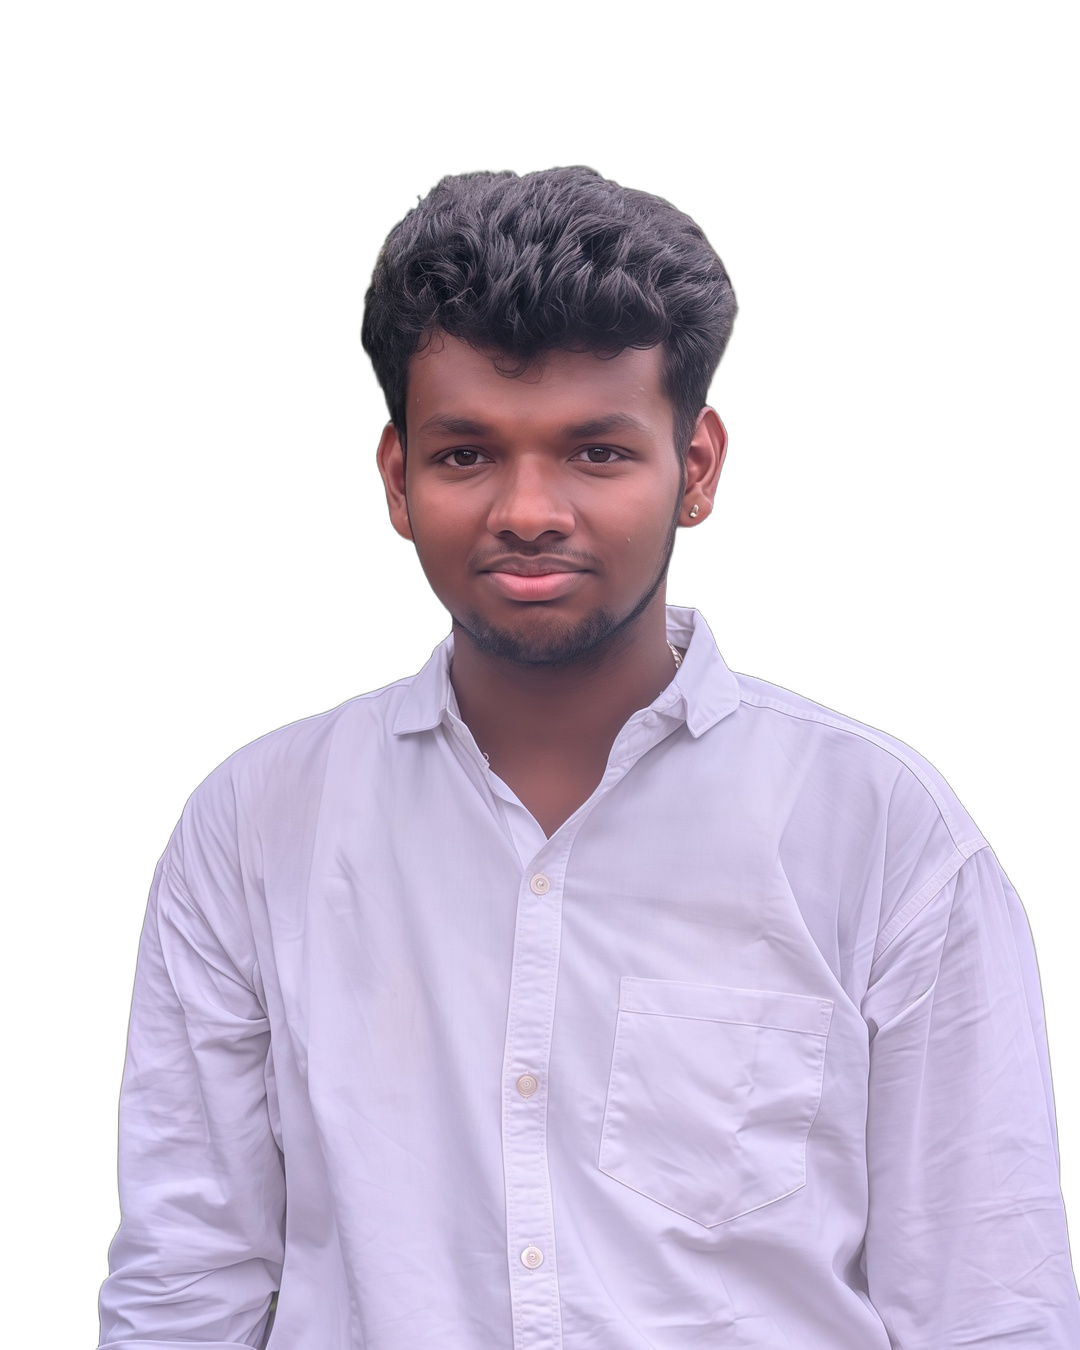
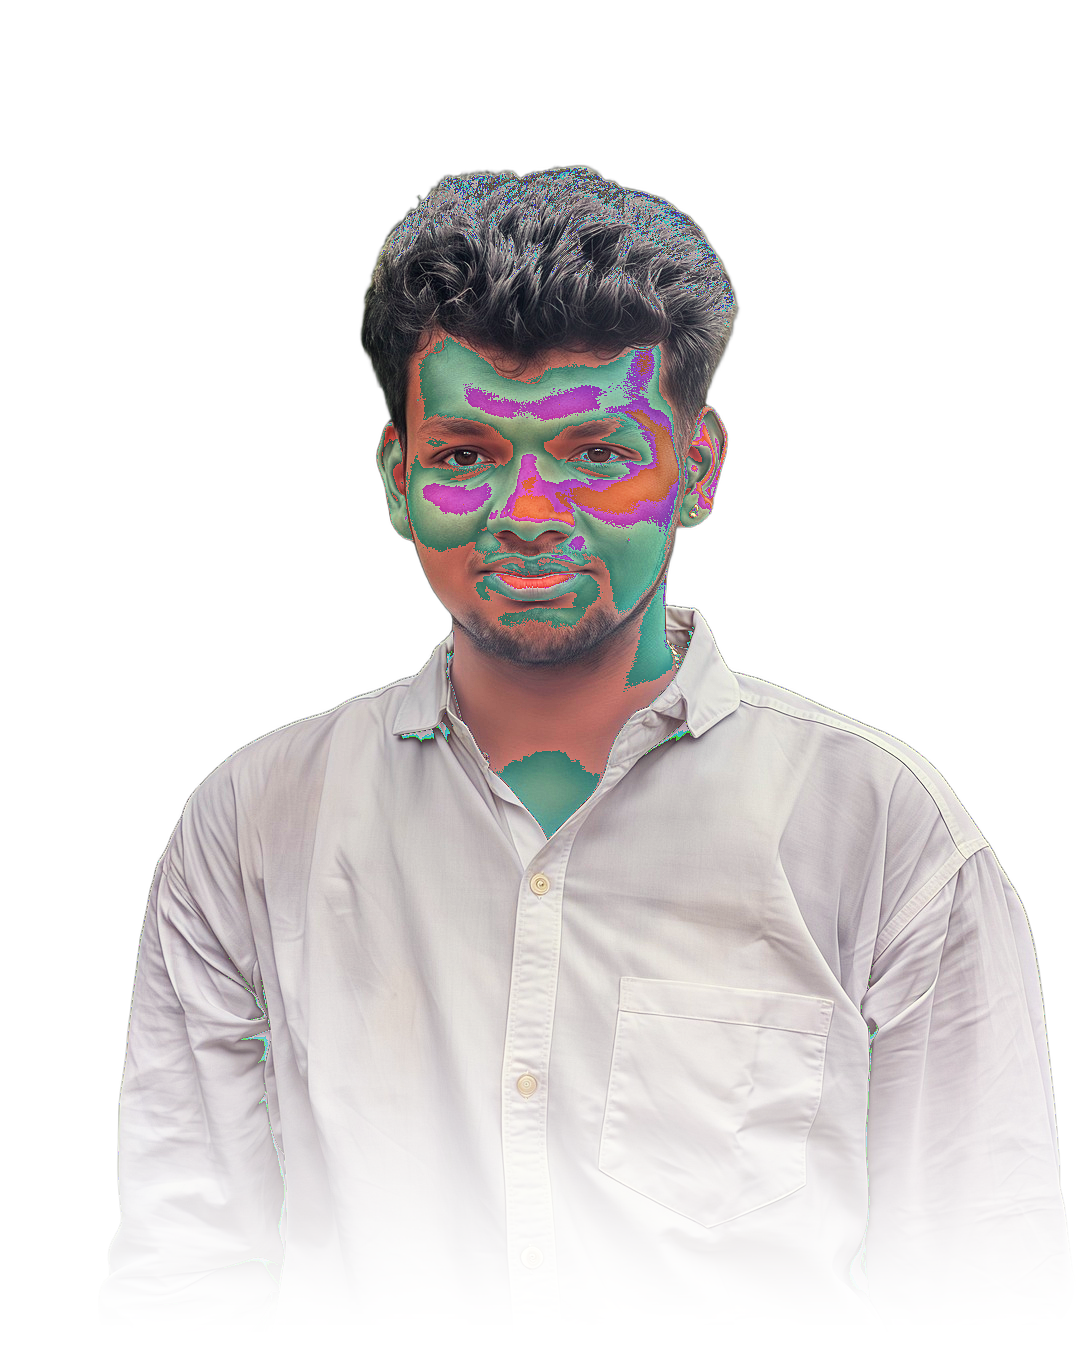
feat: professional studio color grading on portrait cutout, eliminate artificial glow, and remove side line artifacts

diff --git a/src/index.css b/src/index.css
@@ -571,27 +571,6 @@ img {
   max-width: 440px;
 }
 
-.cutout-ambient-glow {
-  position: absolute;
-  top: 50%;
-  left: 50%;
-  transform: translate(-50%, -50%);
-  width: 400px;
-  height: 400px;
-  border-radius: 50%;
-  /* White ambient glow for dark mode */
-  background: radial-gradient(circle, rgba(255, 255, 255, 0.12) 0%, rgba(255, 255, 255, 0.03) 45%, transparent 70%);
-  filter: blur(50px);
-  pointer-events: none;
-  z-index: 0;
-  transition: background 0.3s ease;
-}
-
-body[data-theme='light'] .cutout-ambient-glow {
-  /* Black ambient glow for light mode */
-  background: radial-gradient(circle, rgba(0, 0, 0, 0.08) 0%, rgba(0, 0, 0, 0.02) 45%, transparent 70%);
-}
-
 .cutout-image-wrapper {
   position: relative;
   display: flex;
@@ -608,11 +587,8 @@ body[data-theme='light'] .cutout-ambient-glow {
   max-height: 520px;
   object-fit: contain;
   display: block;
-  /* Smooth bottom fading effect via CSS mask */
-  -webkit-mask-image: linear-gradient(to bottom, #000 0%, #000 64%, rgba(0, 0, 0, 0.7) 80%, rgba(0, 0, 0, 0.2) 93%, transparent 100%);
-  mask-image: linear-gradient(to bottom, #000 0%, #000 64%, rgba(0, 0, 0, 0.7) 80%, rgba(0, 0, 0, 0.2) 93%, transparent 100%);
-  /* WHITE SHADOW FOR DARK MODE */
-  filter: drop-shadow(0 15px 35px rgba(255, 255, 255, 0.22)) drop-shadow(0 0 15px rgba(255, 255, 255, 0.12));
+  /* Natural subtle studio rim shadow - No harsh glow, no clipping */
+  filter: drop-shadow(0 12px 22px rgba(255, 255, 255, 0.08));
   transition: transform 0.35s cubic-bezier(0.16, 1, 0.3, 1), filter 0.35s ease;
   user-select: none;
   -webkit-user-drag: none;
@@ -620,33 +596,16 @@ body[data-theme='light'] .cutout-ambient-glow {
 
 .cutout-portrait-image:hover {
   transform: translateY(-8px) scale(1.02);
-  filter: drop-shadow(0 20px 45px rgba(255, 255, 255, 0.35)) drop-shadow(0 0 25px rgba(255, 255, 255, 0.22));
+  filter: drop-shadow(0 16px 28px rgba(255, 255, 255, 0.14));
 }
 
-/* BLACK SHADOW FOR LIGHT MODE */
+/* SUBTLE BLACK SHADOW FOR LIGHT MODE */
 body[data-theme='light'] .cutout-portrait-image {
-  filter: drop-shadow(0 20px 35px rgba(0, 0, 0, 0.32)) drop-shadow(0 4px 12px rgba(0, 0, 0, 0.18));
+  filter: drop-shadow(0 14px 26px rgba(0, 0, 0, 0.16));
 }
 
 body[data-theme='light'] .cutout-portrait-image:hover {
-  filter: drop-shadow(0 25px 45px rgba(0, 0, 0, 0.45)) drop-shadow(0 8px 18px rgba(0, 0, 0, 0.26));
-}
-
-/* Bottom gradient fade overlay blending into canvas background */
-.cutout-bottom-fade {
-  position: absolute;
-  bottom: 0;
-  left: 0;
-  right: 0;
-  height: 90px;
-  background: linear-gradient(to bottom, transparent 0%, rgba(9, 9, 11, 0.4) 40%, var(--bg-page) 100%);
-  pointer-events: none;
-  z-index: 2;
-  transition: background 0.25s ease;
-}
-
-body[data-theme='light'] .cutout-bottom-fade {
-  background: linear-gradient(to bottom, transparent 0%, rgba(248, 248, 249, 0.4) 40%, var(--bg-page) 100%);
+  filter: drop-shadow(0 18px 34px rgba(0, 0, 0, 0.22));
 }
 
 .cutout-floating-tag {

diff --git a/src/components/Hero.jsx b/src/components/Hero.jsx
@@ -72,7 +72,6 @@ export default function Hero({ onOpenResume }) {
           {/* Right Column: Frameless Cutout Portrait */}
           <div className="hero-cutout-col">
             <div className="cutout-stage">
-              <div className="cutout-ambient-glow"></div>
               {!imgError ? (
                 <div className="cutout-image-wrapper">
                   <img
@@ -81,7 +80,6 @@ export default function Hero({ onOpenResume }) {
                     className="cutout-portrait-image"
                     onError={() => setImgError(true)}
                   />
-                  <div className="cutout-bottom-fade" aria-hidden="true"></div>
                 </div>
               ) : (
                 <div className="portrait-fallback">
